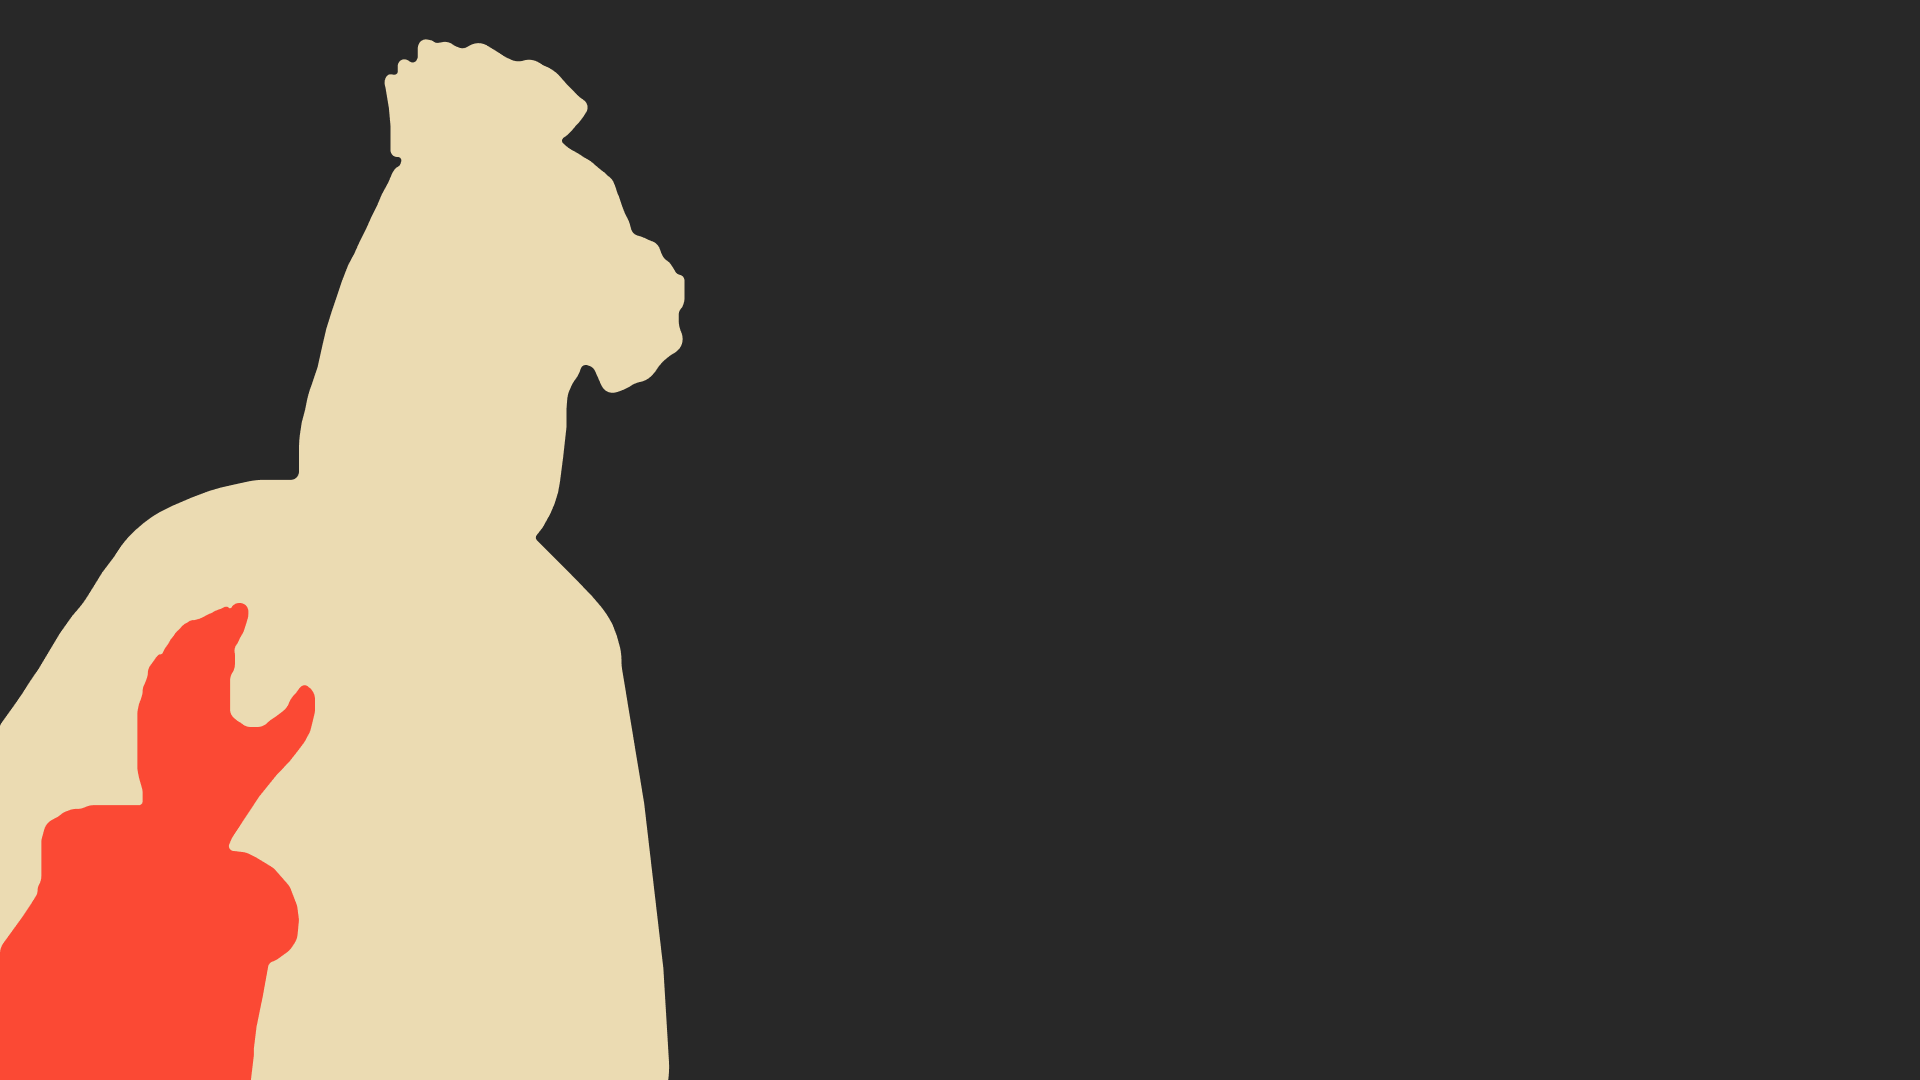
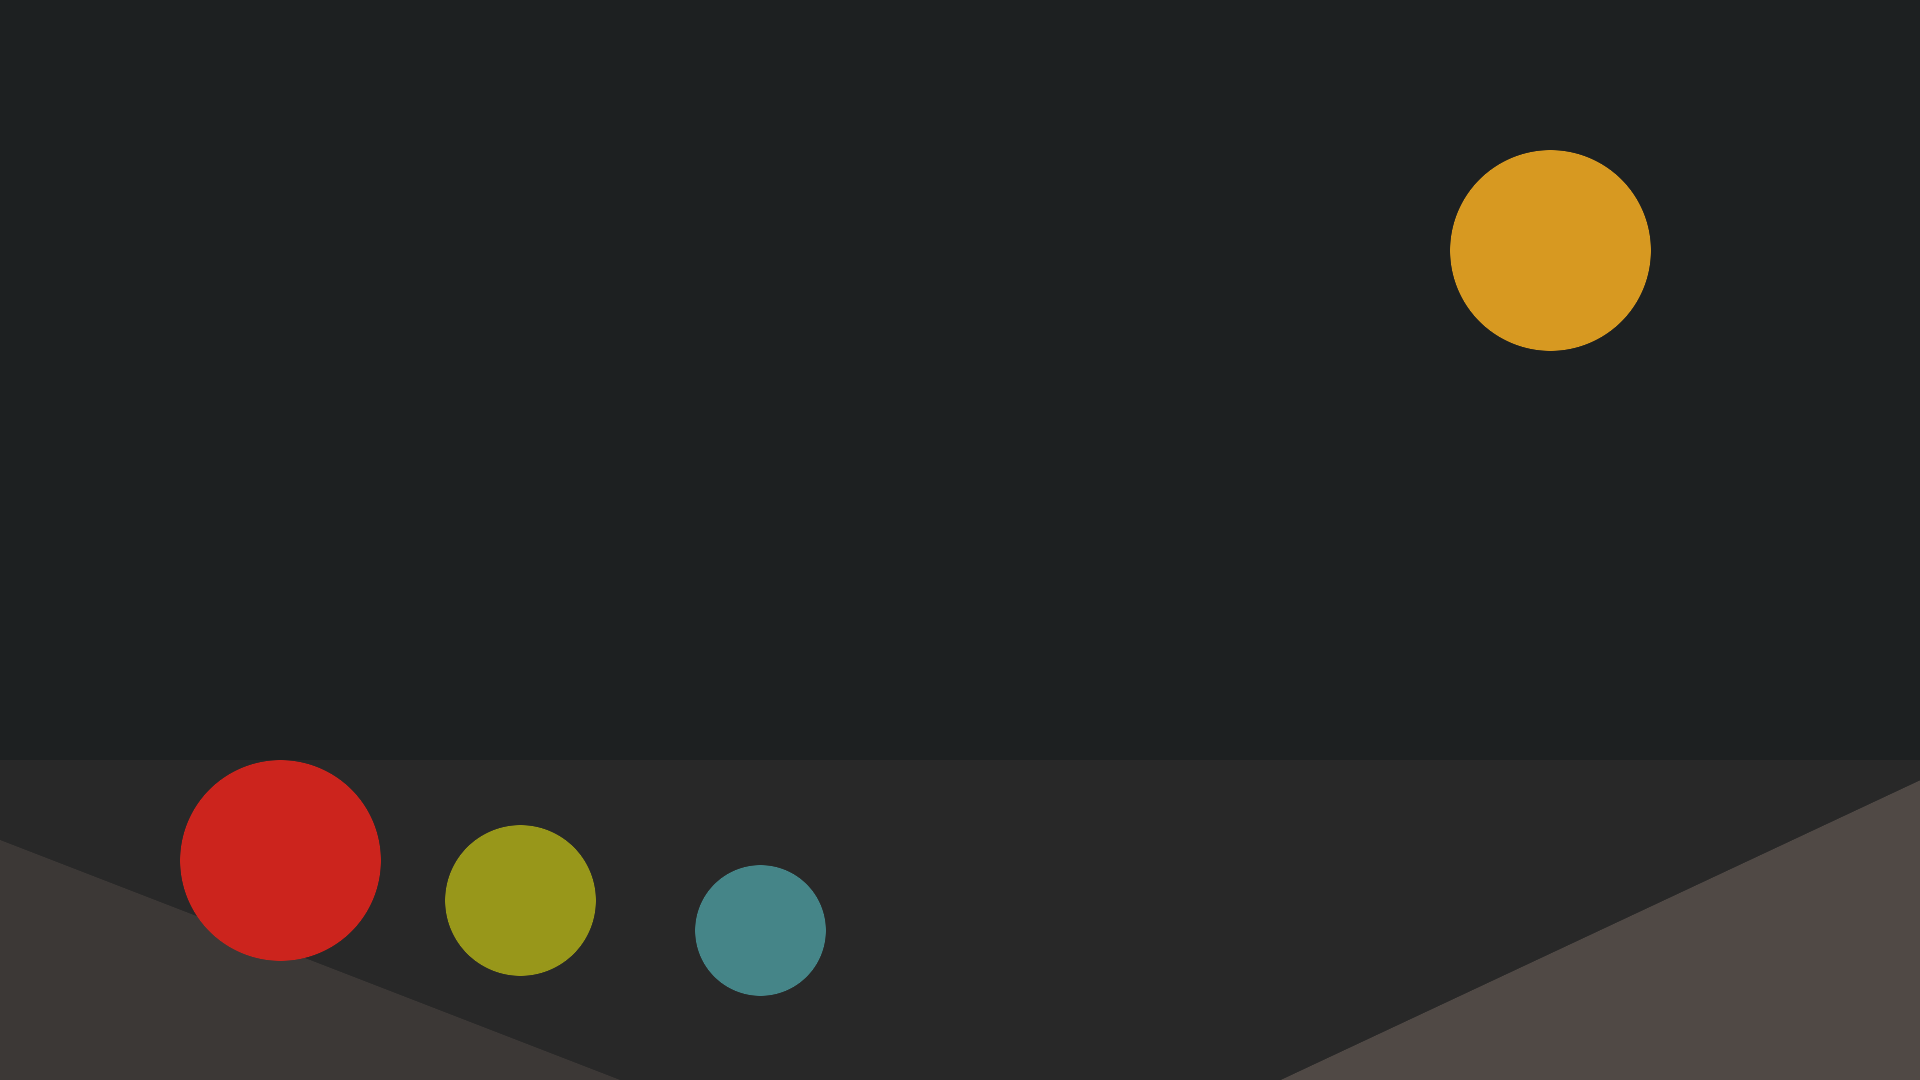
:sparkles: back to gruvbox

Changed region(s): [[0.0, 0.0306, 0.4375, 1.0], [0.6562, 0.7333, 1.0, 1.0], [0.75, 0.1222, 0.875, 0.3361]]

diff --git a/quickshell/ShellGlobals.qml b/quickshell/ShellGlobals.qml
@@ -12,89 +12,89 @@ Singleton {
     readonly property double letterSpacing: 0
     readonly property int fontSize: 11
     
-    // material colors
+    // Gruvbox dark material-style roles
     readonly property var materialColors: QtObject {
-        readonly property color primary: "#0a0a0a"
-        readonly property color onprimary: "#ffffff"
-        readonly property color primarycontainer: "#111111"
-        readonly property color onprimarycontainer: "#ffffff"
-        readonly property color inverseprimary: "#ffffff"
-        readonly property color secondary: "#ffffff"
-        readonly property color onsecondary: "#000000"
-        readonly property color secondarycontainer: "#0a0a0a"
-        readonly property color onsecondarycontainer: "#ffffff"
-        readonly property color tertiary: "#111111"
-        readonly property color ontertiary: "#ffffff"
-        readonly property color tertiarycontainer: "#000000"
-        readonly property color ontertiarycontainer: "#ffffff"
-        readonly property color background: "#000000"
-        readonly property color onbackground: "#ffffff"
-        readonly property color surface: "#000000"
-        readonly property color onsurface: "#ffffff"
-        readonly property color surfacevariant: "#111111"
-        readonly property color onsurfacevariant: "#ffffff"
-        readonly property color surfacetint: "#ffffff"
-        readonly property color inversesurface: "#ffffff"
-        readonly property color inverseonsurface: "#000000"
-        readonly property color error: "#ffffff"
-        readonly property color onerror: "#000000"
-        readonly property color errorcontainer: "#ffffff"
-        readonly property color onerrorcontainer: "#000000"
-        readonly property color outline: "#000000"
-        readonly property color outlinevariant: "#000000"
-        readonly property color scrim: "#000000"
-        readonly property color surfacebright: "#111111"
-        readonly property color surfacecontainer: "#0a0a0a"
-        readonly property color surfacecontainerhigh: "#111111"
-        readonly property color surfacecontainerhighest: "#161616"
-        readonly property color surfacecontainerlow: "#050505"
-        readonly property color surfacecontainerlowest: "#000000"
-        readonly property color surfacedim: "#000000"
+        readonly property color primary: "#3c3836"
+        readonly property color onprimary: "#ebdbb2"
+        readonly property color primarycontainer: "#504945"
+        readonly property color onprimarycontainer: "#fbf1c7"
+        readonly property color inverseprimary: "#d65d0e"
+        readonly property color secondary: "#d79921"
+        readonly property color onsecondary: "#282828"
+        readonly property color secondarycontainer: "#32302f"
+        readonly property color onsecondarycontainer: "#ebdbb2"
+        readonly property color tertiary: "#665c54"
+        readonly property color ontertiary: "#fbf1c7"
+        readonly property color tertiarycontainer: "#3c3836"
+        readonly property color ontertiarycontainer: "#ebdbb2"
+        readonly property color background: "#1d2021"
+        readonly property color onbackground: "#ebdbb2"
+        readonly property color surface: "#282828"
+        readonly property color onsurface: "#ebdbb2"
+        readonly property color surfacevariant: "#3c3836"
+        readonly property color onsurfacevariant: "#d5c4a1"
+        readonly property color surfacetint: "#d79921"
+        readonly property color inversesurface: "#ebdbb2"
+        readonly property color inverseonsurface: "#282828"
+        readonly property color error: "#fb4934"
+        readonly property color onerror: "#282828"
+        readonly property color errorcontainer: "#cc241d"
+        readonly property color onerrorcontainer: "#fbf1c7"
+        readonly property color outline: "transparent"
+        readonly property color outlinevariant: "transparent"
+        readonly property color scrim: "#1d2021"
+        readonly property color surfacebright: "#504945"
+        readonly property color surfacecontainer: "#282828"
+        readonly property color surfacecontainerhigh: "#3c3836"
+        readonly property color surfacecontainerhighest: "#504945"
+        readonly property color surfacecontainerlow: "#1d2021"
+        readonly property color surfacecontainerlowest: "#1d2021"
+        readonly property color surfacedim: "#1d2021"
     }
     
     // Theme
     readonly property var colors: QtObject {
         // Core
-        readonly property color bg:    "#000000";
-        readonly property color fg:    "#ffffff";
+        readonly property color bg:    "#282828";
+        readonly property color fg:    "#ebdbb2";
     
         // Normal colors
-        readonly property color red:    "#ffffff";
-        readonly property color green:  "#ffffff";
-        readonly property color yellow: "#ffffff";
-        readonly property color blue:   "#ffffff";
-        readonly property color purple: "#ffffff";
-        readonly property color aqua:   "#ffffff";
-        readonly property color gray:   "#ffffff";
+        readonly property color red:    "#cc241d";
+        readonly property color green:  "#98971a";
+        readonly property color yellow: "#d79921";
+        readonly property color blue:   "#458588";
+        readonly property color purple: "#b16286";
+        readonly property color aqua:   "#689d6a";
+        readonly property color gray:   "#a89984";
     
         // Bright colors
-        readonly property color brightRed:    "#ffffff";
-        readonly property color brightGreen:  "#ffffff";
-        readonly property color brightYellow: "#ffffff";
-        readonly property color brightBlue:   "#ffffff";
-        readonly property color brightPurple: "#ffffff";
-        readonly property color brightAqua:   "#ffffff";
-        readonly property color brightGray:   "#ffffff";
+        readonly property color brightRed:    "#fb4934";
+        readonly property color brightGreen:  "#b8bb26";
+        readonly property color brightYellow: "#fabd2f";
+        readonly property color brightBlue:   "#83a598";
+        readonly property color brightPurple: "#d3869b";
+        readonly property color brightAqua:   "#8ec07c";
+        readonly property color brightGray:   "#928374";
     
         // Background shades
-        readonly property color bg0_h: "#000000";
-        readonly property color bg0:   "#000000";
-        readonly property color bg0_s: "#050505";
-        readonly property color bg1:   "#0a0a0a";
-        readonly property color bg2:   "#111111";
-        readonly property color bg3:   "#161616";
-        readonly property color bg4:   "#202020";
+        readonly property color bg0_h: "#1d2021";
+        readonly property color bg0:   "#282828";
+        readonly property color bg0_s: "#32302f";
+        readonly property color bg1:   "#3c3836";
+        readonly property color bg2:   "#504945";
+        readonly property color bg3:   "#665c54";
+        readonly property color bg4:   "#7c6f64";
     
         // Foreground shades
-        readonly property color fg0: "#ffffff";
-        readonly property color fg1: "#ffffff";
-        readonly property color fg2: "#eeeeee";
-        readonly property color fg3: "#dddddd";
-        readonly property color fg4: "#cccccc";
+        readonly property color fg0: "#fbf1c7";
+        readonly property color fg1: "#ebdbb2";
+        readonly property color fg2: "#d5c4a1";
+        readonly property color fg3: "#bdae93";
+        readonly property color fg4: "#a89984";
     
         // Extra
-        readonly property color orange:       "#ffffff";
-        readonly property color brightOrange: "#ffffff";
+        readonly property color orange:       "#d65d0e";
+        readonly property color brightOrange: "#fe8019";
     }
     
     function adjustTextOverflow(text, maxWidth) {

diff --git a/quickshell/bar/MemUsage.qml b/quickshell/bar/MemUsage.qml
@@ -5,10 +5,10 @@ import Quickshell.Io
 import qs
 
 Rectangle {
-    color: memCritical ? "#ff1f3d" : ShellGlobals.materialColors.primary
+    color: memCritical ? ShellGlobals.materialColors.errorcontainer : ShellGlobals.materialColors.primary
     radius: 0
-    border.width: memCritical ? 2 : 0
-    border.color: memCritical ? "#ffffff" : "transparent"
+    border.width: 0
+    border.color: "transparent"
 
     implicitHeight: column.height + 10
     implicitWidth: column.width + 16
@@ -83,7 +83,7 @@ Rectangle {
             ColorOverlay {
                 anchors.fill: parent
                 source: icon
-                color: "#ffffff"
+                color: memCritical ? ShellGlobals.materialColors.onerrorcontainer : ShellGlobals.materialColors.onprimary
             }
         }
 
@@ -95,7 +95,7 @@ Rectangle {
             font.bold: true
             font.letterSpacing: ShellGlobals.letterSpacing
             elide: Text.ElideLeft
-            color: "#ffffff"
+            color: memCritical ? ShellGlobals.materialColors.onerrorcontainer : ShellGlobals.materialColors.onprimary
             horizontalAlignment: Text.AlignHCenter
             Layout.alignment: Qt.AlignHCenter
         }